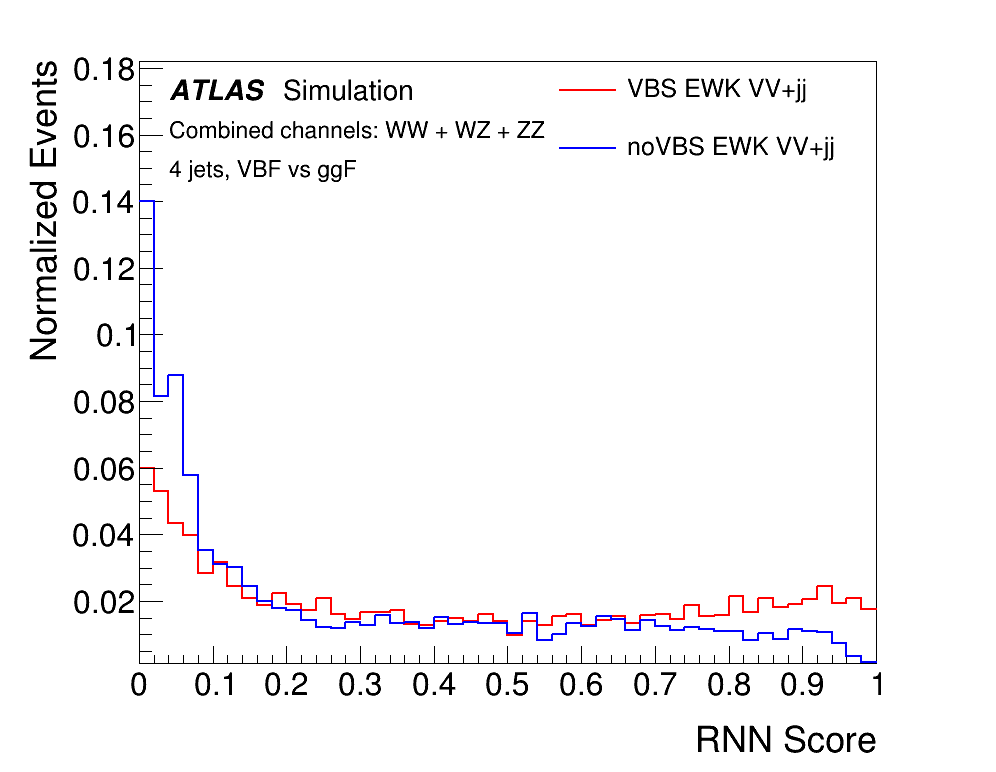
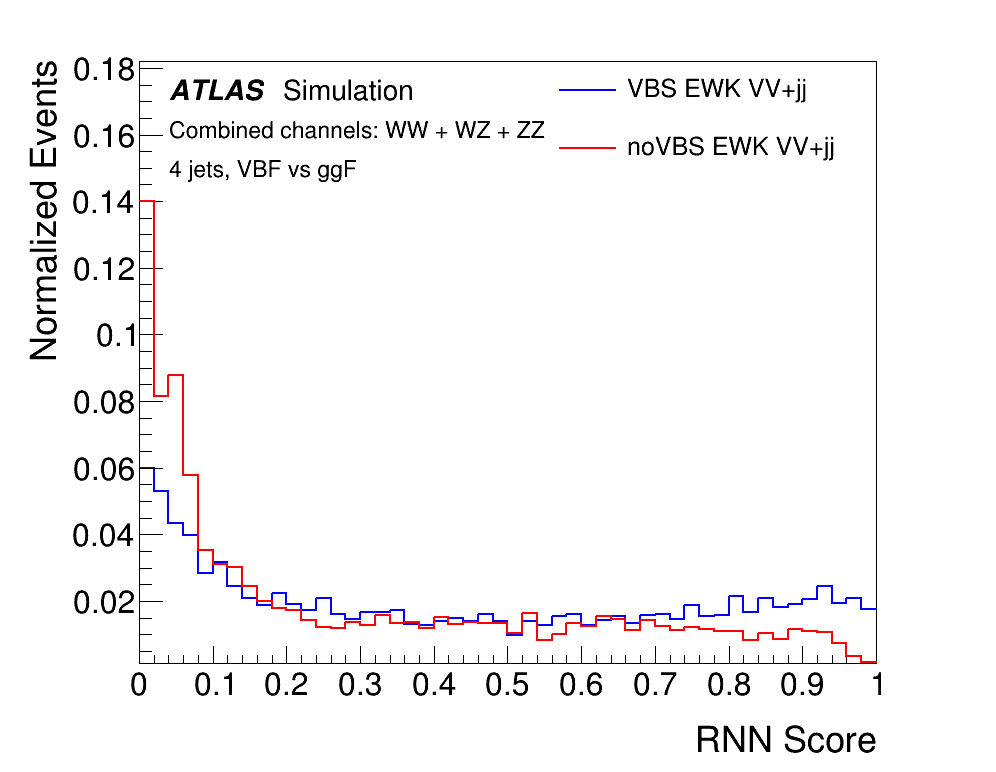
figures+methods+results

diff --git a/chapters/results.tex b/chapters/results.tex
@@ -15,24 +15,15 @@ Although the AUC provides a convenient scalar summary, it weights all score thre
 \section{Performance comparison of the RNN versions}
 \label{sec:vbfrnn_perf}
 
-The three VBF-RNN versions of Table~\ref{tab:vbfrnn_versions} differ both in their training target and in the set of input jets, and the comparison below is constructed to disentangle the impact of each. Version~1 was trained on a different objective --- resonant VBF against gluon-fusion production --- so the decision boundary it learned reflects that problem rather than the VBS versus non-VBS EWK separation required here. When the negative class changes from gluon-fusion jets to the other electroweak $VVjj$ diagrams, whose forward tagging-jet kinematics are far more VBS-like, that boundary is not expected to transfer. Retraining the identical four-jet architecture on the correct target (version~2) isolates whether the limitation is one of training objective or of input information, and extending the input to six jets (version~3) then tests whether the production-side jets alone are sufficient.
+The three VBF-RNN versions of Table~\ref{tab:vbfrnn_versions} differ both in their training target and in the set of input jets, and the comparison below is constructed to disentangle the impact of each. Version~1 was trained on a different objective --- resonant VBF against gluon-fusion production --- so the decision boundary it learned reflects that problem rather than the VBS versus non-VBS EWK separation required here. When the negative class changes from gluon-fusion jets to the other electroweak $VVjj$ diagrams, whose forward tagging-jet kinematics are far more VBS-like, that boundary is not expected to transfer. Retraining the identical four-jet architecture on the correct target (version~2) isolates whether the limitation is one of training objective or of input information, while version~3 additionally includes the two large-$R$ signal jets, whose complementary discriminating power is established in Section~\ref{sec:vbfrnn} (Figure~\ref{fig:vbfrnn_sigjet}), to test how much the decay-side information improves on the tagging jets alone.
 
-The four tagging jets constrain only the production side of the event. The VBS and non-VBS EWK subprocesses also differ in the diboson system they produce: the genuine $VV\to VV$ scattering of the VBS subprocess yields a harder, higher-mass central diboson pair than the radiative non-VBS EWK topologies that share the same final state. Figure~\ref{fig:vbfrnn_sigjet} exposes this residual difference through the dijet invariant mass of the two large-$R$ signal jets, which retains discriminating power between the two classes that the tagging jets do not capture and which is largely statistically independent of the production-side information. This is what motivates extending the input to the six-jet configuration of version~3. The separation is shown here for the $WZjj\to4q$ channel, but it originates in the diboson scattering kinematics rather than in the specific boson decay and is therefore representative of all diboson channels; the combined-channel results below confirm that it carries over to the inclusive sample.
-
-\begin{figure}[h]
-\centering
-\includegraphics[width=0.6\textwidth]{figures/vbfrnn_sigjet_mjj.png}
-\caption{Normalised distribution of the dijet invariant mass of the two large-$R$ signal jets at the training pre-selection, for VBS (blue) and non-VBS EWK (red) $WZjj\to 4q$ events. The difference between the two distributions, quantified by the ratio panel, demonstrates the additional discriminating information that motivates including the signal jets in version~3 of the tagger.}
-\label{fig:vbfrnn_sigjet}
-\end{figure}
-
-These expectations are borne out on the combined diboson validation sample, shown in Figure~\ref{fig:vbfrnn_roc} and summarised in Table~\ref{tab:vbfrnn_auc}. Version~1 reaches an AUC of only $0.629$ and lies close to the diagonal, confirming that its boundary does not transfer to the new objective. Retraining on the VBS versus non-VBS EWK target (version~2) raises the AUC substantially to $0.760$ from the very same four jets, demonstrating that the relevant topological information was accessible all along and that version~1's failure was one of objective, not of input. Adding the two large-$R$ signal jets (version~3) improves the AUC further to $0.801$, a relative gain of $+5.4\%$ over version~2 that quantifies the complementary information carried by the diboson system in Figure~\ref{fig:vbfrnn_sigjet}. The score distributions in Figure~\ref{fig:vbfrnn_scores} show the same progression directly: version~1 leaves the two classes almost entirely overlapping, version~2 achieves a clear separation, and version~3 pushes non-VBS EWK events towards low scores and VBS events towards high scores, giving a markedly cleaner, bimodal separation.
+These expectations are borne out on the combined diboson validation sample, shown in Figure~\ref{fig:vbfrnn_roc} and summarised in Table~\ref{tab:vbfrnn_auc}. Version~1 reaches an AUC of only $0.629$ and lies close to the diagonal, confirming that its boundary does not transfer to the new objective. Retraining on the VBS versus non-VBS EWK target (version~2) raises the AUC substantially to $0.760$ from the very same four jets, demonstrating that the relevant topological information was accessible all along and that version~1's failure was one of objective, not of input. Adding the two large-$R$ signal jets (version~3) improves the AUC further to $0.801$, $+27.3\%$ relative to the version~1 baseline, with the additional gain over version~2 reflecting the complementary information carried by the diboson system established in Section~\ref{sec:vbfrnn}. The score distributions in Figure~\ref{fig:vbfrnn_scores} show the same progression directly: version~1 leaves the two classes almost entirely overlapping, version~2 achieves a clear separation, and version~3 pushes non-VBS EWK events towards low scores and VBS events towards high scores, giving a markedly cleaner, bimodal separation.
 
 Version~3 is therefore adopted as the baseline tagger for the remainder of the analysis. Beyond the inclusive AUC, this choice is reinforced by the response to the individual aQGC operator families discussed in Section~\ref{sec:vbfrnn_aqgc}: version~1 does not merely underperform inclusively but, as shown there, fails entirely to recognise the tensor- and mixed-operator topologies, whereas version~3 responds uniformly across all families --- an operator independence that is essential given that a single tagger is applied to every signal hypothesis.
 
 \begin{table}[h]
 \centering
-\caption{Discrimination performance of the three VBF-RNN versions on the combined $WW+WZ+ZZ$ EWK validation sample, quantified by the AUC for separating VBS from non-VBS EWK events. The relative improvement is given with respect to the preceding configuration.}
+\caption{Discrimination performance of the three VBF-RNN versions on the combined $WW+WZ+ZZ$ EWK validation sample, quantified by the AUC for separating VBS from non-VBS EWK events. The relative improvement is given with respect to the version~1 (VBF vs.\ ggF) baseline.}
 \label{tab:vbfrnn_auc}
 \begin{tabular}{llcc}
 \toprule
@@ -68,7 +59,7 @@ v3 & 6 jets, VBS vs.\ non-VBS EWK & 0.801 & $+27.3\%$ \\
 \includegraphics[width=\textwidth]{figures/vbfrnn_score_v3.png}
 \caption{Version~3 (6 jets)}
 \end{subfigure}
-\caption{VBF-RNN score distributions for VBS (red) and non-VBS EWK (blue) events, for the version~1 resonance-trained tagger (left), the four-jet version~2 tagger (centre) and the six-jet version~3 tagger (right). Version~1 barely separates the two classes; retraining on the VBS versus non-VBS EWK target (version~2) yields a clear separation, and including the signal jets (version~3) sharpens it further, pushing non-VBS EWK events to low scores and VBS events to high scores. The residual structure near $s\approx0.9$ in the four-jet version~2 distribution is discussed in Section~\ref{sec:vbfrnn_multiplicity}.}
+\caption{VBF-RNN score distributions for VBS (blue) and non-VBS EWK (red) events, for the version~1 resonance-trained tagger (left), the four-jet version~2 tagger (centre) and the six-jet version~3 tagger (right). Version~1 barely separates the two classes; retraining on the VBS versus non-VBS EWK target (version~2) yields a clear separation, and including the signal jets (version~3) sharpens it further, pushing non-VBS EWK events to low scores and VBS events to high scores. The residual structure near $s\approx0.9$ in the four-jet version~2 distribution is discussed in Section~\ref{sec:vbfrnn_multiplicity}.}
 \label{fig:vbfrnn_scores}
 \end{figure}
 

diff --git a/chapters/analysismethods.tex b/chapters/analysismethods.tex
@@ -58,6 +58,15 @@ v3 & Up to 6 jets (tagging + signal)  & VBS vs.\ non-VBS (EWK) \\
 
 Version~1 corresponds to the configuration used in earlier analyses, trained to separate resonance VBF production from gluon-fusion production using only the potential tagging jets. This version provides a useful baseline and demonstrates that the topological characteristics of VBF-like events are captured by the tagging-jet kinematics alone. Version~2 retrains the same four-jet architecture directly on the VBS versus non-VBS (EWK) classification task relevant to this analysis. Version~3 extends the input to six jets by including the two large-$R$ signal jets alongside the tagging jets, giving the network access to the full reconstructed final state.
 
+The four tagging jets constrain only the production side of the event, but the VBS and non-VBS EWK subprocesses also differ in the diboson system they produce: the genuine $VV\to VV$ scattering of the VBS subprocess yields a harder, higher-mass central diboson pair than the radiative non-VBS EWK topologies that share the same final state. Figure~\ref{fig:vbfrnn_sigjet} exposes this residual difference through the dijet invariant mass of the two large-$R$ signal jets, which retains discriminating power between the two classes that the tagging jets do not capture and which is largely statistically independent of the production-side information. This is the motivation for the six-jet configuration of version~3. The separation is shown for the $WZjj\to4q$ channel, but it originates in the diboson scattering kinematics rather than in the specific boson decay and is therefore representative of all diboson channels; the combined-channel performance reported in Chapter~\ref{chap:vbfrnn_results} confirms that it carries over to the inclusive sample.
+
+\begin{figure}[h]
+\centering
+\includegraphics[width=0.6\textwidth]{figures/vbfrnn_sigjet_mjj.png}
+\caption{Normalised distribution of the dijet invariant mass of the two large-$R$ signal jets at the training pre-selection, for VBS (blue) and non-VBS EWK (red) $WZjj\to 4q$ events. The difference between the two distributions, quantified by the ratio panel, demonstrates the additional discriminating information that motivates including the signal jets in version~3 of the tagger.}
+\label{fig:vbfrnn_sigjet}
+\end{figure}
+
 \subsection{Input representation}
 
 For each jet, the observables $(p_T,\,\eta,\,\phi,\,E)$ are used as input features, forming a tensor $\mathbf{X} \in \mathbb{R}^{T \times 4}$ for a sequence of $T$ jets ordered by decreasing transverse momentum. Events with fewer than $T$ jets are zero-padded to the fixed sequence length and the padding is masked during the forward pass so that padded steps do not contribute to the hidden-state evolution, as described in Chapter~\ref{chap:ml}.